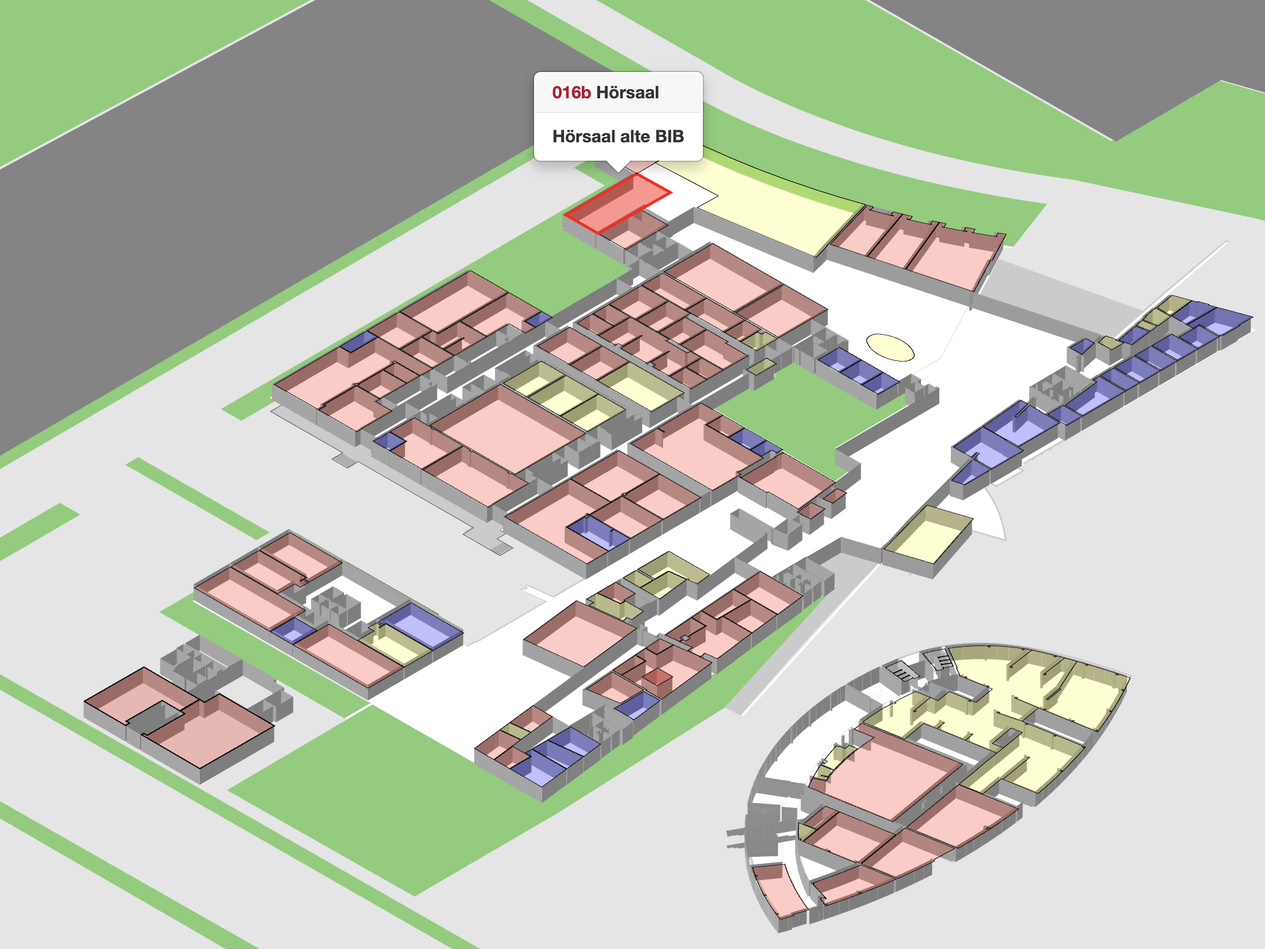
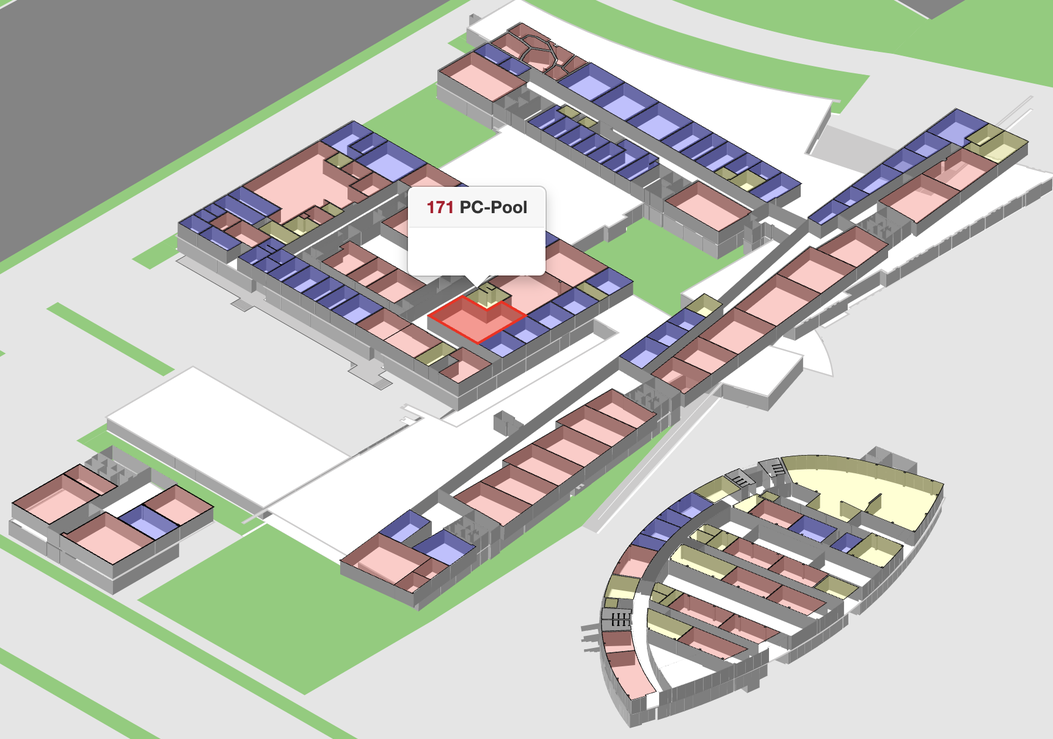
deploy: 4021798d3871fa430106687c3910ca86b8a0b2f8

diff --git a/searchindex.js b/searchindex.js
@@ -1,1 +1,1 @@
-Search.setIndex({docnames:["ae/ae-1-scraping-quotes","ae/exams","docs/course-faq","docs/course-overview","docs/course-schedule","docs/course-support","docs/course-syllabus","docs/programming-semantics","docs/programming-syntax","docs/programming-toolkit","exams/exams","hw/hw","weeks/week1","weeks/week2","weeks/weeks-overview"],envversion:{"sphinx.domains.c":2,"sphinx.domains.changeset":1,"sphinx.domains.citation":1,"sphinx.domains.cpp":5,"sphinx.domains.index":1,"sphinx.domains.javascript":2,"sphinx.domains.math":2,"sphinx.domains.python":3,"sphinx.domains.rst":2,"sphinx.domains.std":2,"sphinx.ext.intersphinx":1,"sphinxcontrib.bibtex":9,sphinx:56},filenames:["ae/ae-1-scraping-quotes.ipynb","ae/exams.md","docs/course-faq.md","docs/course-overview.md","docs/course-schedule.md","docs/course-support.md","docs/course-syllabus.md","docs/programming-semantics.ipynb","docs/programming-syntax.ipynb","docs/programming-toolkit.md","exams/exams.md","hw/hw.md","weeks/week1.md","weeks/week2.md","weeks/weeks-overview.md"],objects:{},objnames:{},objtypes:{},terms:{"0":[0,6,7,8,12],"00":[6,7],"0008":8,"01":[3,6,7],"016b":6,"02":[3,6],"04":7,"05":[3,4],"07":3,"09":3,"0m":7,"0ma":7,"0madd_numb":7,"0mb":7,"1":[0,3,4,6,7,8,13],"10":[0,3,4,7,8],"100":[6,7],"11":[3,6,7],"110":7,"12":[3,4,7],"121":7,"123":7,"13":[3,6,7],"14":[3,6,7,8],"1411870314":7,"14159":7,"15":[3,6,7],"16":[3,7],"17":7,"18":[3,7],"19":[3,7],"1906":7,"1912":7,"1956":7,"199":7,"2":[0,3,4,6,7,8,12],"20":[6,7],"200":0,"2011":7,"2012":7,"21":[3,7],"23":[3,7],"24":[6,7],"25":[3,6,7,9],"26":[3,7],"29":7,"3":[0,3,4,6,7,8,9],"30":[3,6,7],"31":7,"31mdocstr":7,"31mfile":7,"31mlength":7,"31msignatur":7,"31msourc":7,"31mstring":7,"31mtype":7,"32mdef":7,"32mreturn":7,"34":7,"34m":7,"35":7,"36":[7,8],"4":[3,4,6,7,8],"42":7,"43bdsj9j64j16410rds5g9vr0000gp":7,"45":6,"47":7,"49":[6,7],"5":[0,3,4,6,7,8],"50":6,"53":7,"54":6,"55":[6,7],"59":[6,7],"6":[3,7,8],"60":[6,7],"61":7,"64":[6,7],"65":6,"66":7,"68":7,"69":6,"7":[3,6,7,8],"70":6,"74":6,"75":6,"76":7,"79":6,"8":[3,7,8],"80":6,"81":7,"84":6,"85":6,"89":7,"9":[3,7,8,9],"90":[0,6],"91":6,"95":6,"96":6,"boolean":7,"case":[7,8,9],"catch":7,"class":[0,5,6,7],"default":9,"do":[6,7],"final":[0,6,9],"float":7,"function":[0,6,8,9],"import":[0,3,6,7,9],"int":7,"long":8,"new":[0,5,7],"null":7,"public":[5,6],"return":[0,7],"short":[7,8,9,13],"true":7,"try":[7,9],"var":7,"while":7,A:[0,6,7,8,9],As:[7,9],But:7,By:[6,8],For:[3,4,5,6,7,8,9],If:[5,6,7,8,9],In:[0,5,6,7,8,9],Is:7,It:[0,7,8,9],No:7,On:[6,9],One:[7,9],Or:7,Such:7,The:[0,5,6,7,8,9],Then:[7,9],There:[5,6,7],These:[6,7],To:[0,7],With:7,__:0,___:0,__name__:7,__str__:7,abc:7,abl:[6,7],about:[0,3,5,6,7,9,13],abov:0,accept:[6,9],access:[0,7],accomplish:6,account:[7,9,12],acount:9,across:[6,7],act:[6,7],activ:[0,6],actual:0,ad:5,add:[7,9],add_numb:7,addit:[7,9],addition:6,address:[0,9],adher:6,ae:[4,6,13,14],affect:7,affirm:6,after:[0,6,7,8,12],alabama:7,alan:7,albert:0,alex:[7,8],all:[5,6,7,8,9],allow:[6,7,9],almost:0,along:[7,9],alphabet:7,alreadi:[5,7,9],also:[6,7,8,9],altair:9,altern:[7,9],alwai:8,am:6,amax:7,amount:8,an:[0,4,6,7,8,9,12],anaconda3:9,analysi:[3,7,9],analyt:[3,4,6],analyz:6,ani:[0,5,6,7,9],anoth:[5,6,7],answer:[0,5,6,7],anybodi:9,anyon:6,anyth:[7,8],api:[3,6],app:[7,8],append:[0,7,8],appli:[6,7],applic:[9,12,13,14],approach:[0,6,7],appropri:[5,6],ar:[0,5,6,7,8,9],arg:7,argument:8,arithmet:7,around:6,arrai:[0,7],ask:[5,6,9],assert:0,assign:[0,3,4,6,7,8],assist:6,associ:[7,9],attach:7,attend:14,author:9,authors_text:0,autom:7,avail:[0,6,7,9],avoid:9,awar:6,b:[7,8],back:[12,13],base:[0,6,7,8,9],basic:[0,4,7,9,13],beautifulsoup4:9,beautifulsoup:0,becaus:7,becom:6,befor:[0,5,6,7,14],begin:6,behind:9,being:8,below:[0,8,9],best:[5,6,7],better:6,between:[6,7],beyond:5,big:[3,4],big_data:9,birth:7,block:[7,8],bodi:7,bool:7,both:[7,9],box:9,bracket:7,brief:[7,8],bring:6,broad:9,browser:[0,9,13],bs4:0,bucket:7,buffer:7,build:[0,7],built:7,builtin_function_or_method:7,bytes_or_buff:7,c:7,calcul:[6,7],call:[0,7,8,9],can:[0,5,6,7,8,9],cannot:0,capit:7,captur:9,carolina:7,cascad:13,catch_al:7,categori:6,cell:[0,9],center:5,certain:[0,7],chanc:5,chang:[0,7,9],channel:9,channel_prior:9,charact:7,cheat:6,check:[0,5,6,7],choos:9,chrome:[0,13],circumst:6,citat:6,cite:6,classmat:6,clean_op:7,clean_str:7,cleanli:7,clearli:6,click:0,clock:7,clone:[9,12],close:[7,8,9],cloud:9,cluster:[3,6],code:[0,7,8,14],codelab:13,colaboratori:9,collabor:[0,9],collect:[0,6,7],colon:[7,8],column:0,com:0,combin:[0,7,9],come:[6,7,9],command:9,commentari:9,commit:6,common:0,commonli:7,commun:[6,9],compat:9,compil:9,complet:[0,6],complic:7,compon:6,compress:7,compris:6,compromis:6,comput:[7,9],concept:[6,14],conceptu:6,conclus:9,concret:7,conda:0,condition:7,conduct:6,config:9,confus:6,congratul:0,consid:7,consist:8,constitut:8,construct:7,contain:[0,3,4,7,8,9,14],content:[0,3,4,5,6,7,8,9,14],continu:8,control:9,convent:[7,8],convert:7,copi:9,correct:0,correctli:8,correspond:[0,6],could:[6,7],cours:[12,13,14],cover:[7,13],creat:[5,6,7,8,12],creation:9,css:[0,4,13],curli:7,current:7,d:[7,8],dai:[6,7,9],dashboard:[3,6],data:[0,3,4,6,7,9],date:[3,4,6],datetim:7,de:[5,6],deadlin:6,deal:7,debugg:9,decis:9,declar:7,decod:7,dedic:6,deduct:6,deep:0,def:7,definit:7,delet:[0,9],deliveri:6,demo:9,demonstr:6,denot:[7,8],depend:[6,7,9],descript:7,design:[6,9],desir:7,desktop:[9,12],detail:[3,5,6],determin:6,dev:8,develop:[5,9],devic:9,devtool:0,df1:0,df2:0,df:0,df_author:0,df_quot:0,df_tag:0,dict:7,dictionari:7,did:9,differ:[0,7],difficult:[6,7],digit:7,directli:[5,6],directori:9,discov:6,discuss:[3,6],displai:[7,8],distinct:7,distinguish:9,div:0,divis:7,docstr:7,document:[0,7,9],doe:[7,8],don:[0,6,7],done:7,dot:7,doubl:7,down:7,download:[13,14],dr:6,drive:9,dt:7,due:[6,7],dure:[5,6],dynam:7,e:[0,6,7,8,9],each:[6,7,9],earlier:6,easi:7,easier:0,easiest:9,easili:7,ecosystem:9,edit:9,editor:9,effect:[7,8],effort:6,einstein:0,either:9,els:8,email:[6,9,12],empti:[0,7,8],emtpti:0,enabl:7,encod:7,encourag:5,end:[0,6,7,8],endeavor:6,enter:9,entir:[7,9],entiti:[7,9],entri:0,env:9,environ:0,equal:7,equat:9,equip:7,equival:[7,8],especi:[7,9],essenti:[7,8],etc:[0,6],evalu:[6,7,8],even:[6,8],eventu:[6,7],ever:7,everi:[0,7],everyon:5,everyth:[0,7],exact:7,exactli:7,exam:[4,14],exampl:[0,6,7,8],execut:[7,8,9],exercis:[9,12,13,14],exist:9,expand:7,expect:[0,6,7],explanatori:9,explicitli:6,explor:[7,8,9],exponenti:7,expos:7,express:[7,8],extend:7,extens:[0,13],extract:7,f:7,factor:7,fail:7,fals:7,familiar:[7,9],far:[0,6],fashion:7,fastest:7,featur:[0,6,7,8,9],feel:[5,6],fetch:0,fibonacci:7,file:[7,9],fill:[0,7,12],find:[6,7],findal:0,fine:7,first:[0,7,9,12],fix:7,flavor:7,floor:7,florida:7,flush:7,focu:[6,7,8,9],folder:7,follow:[0,6,7,8,9,14],forcibl:7,forev:7,form:[7,8],format:[6,7,9],forum:[3,6],found:8,four:[7,8],fraction:7,framework:[7,9],free:[5,6,9],from:[0,5,6,7,8,9,13],func:7,fundament:12,g:[6,7],gadget:0,gain:6,gener:[6,7],georgia:7,get:[7,9,12,13],get_text:0,getdefaultencod:7,git:12,github:[6,12,13],give:[0,6,7],given:[6,7],go:[5,7,9,12,13],goal:0,goe:7,good:[0,7],googl:[0,6,9,13],grace:7,great:9,greater:7,group:[6,7,8],guid:9,guidanc:6,guido:7,h:7,ha:[0,5,7,9],hack:9,hand:0,handl:7,handler:7,happen:7,hard:9,have:[0,5,6,7,9],hdm:[5,6,9,12],head:0,header:0,hello:7,help:5,here:[0,6,7,8,9],hhmm:7,high:[6,7],hint:0,home:6,homework:14,honor:6,hopper:7,host:9,hour:[6,7],how:[0,6,7,9],howev:6,html:[4,13],http:[0,8],huge:6,hw:[4,6,14],hyper:13,i:[0,3,5,6,7,8,9],ident:7,ignor:8,ii:3,ill:7,iloc:0,immens:7,immut:7,implement:0,impress:9,includ:[5,6,7,9],index:7,indic:[7,8],individu:[6,9],inform:[0,7,9],initi:7,inlin:8,input:7,insert:7,insid:9,insight:6,inspect:0,inspir:6,instal:[12,13,14],instanc:[5,7],instead:[0,9],instruct:[0,9,12],integ:7,interact:9,interest:9,interior:7,intermedi:0,internet:9,interpret:[8,9],intro:9,introduc:6,introduct:[3,4,12],introspect:7,intuit:7,invalid:7,invit:9,involv:[6,7],ipykernel_8411:7,ipython:0,is_even:7,item:7,iter:0,its:[7,9],j:[0,7],jack:[7,8],join:0,juptyer:9,jupyt:[0,6],just:[7,9],k:0,keep:[6,7],kei:7,kernel:[0,9],keyword:7,kind:7,kirenz:[5,6],know:[0,5,6,7],known:8,kwarg:7,l:[7,8],lab:[4,6,9],languag:[7,8,9,13],laptop:6,larg:0,last:7,later:0,latest:9,lead:8,leap:7,learn:[0,5,7,9],lectur:[4,14],led:9,left:[0,7],len:[0,7],less:[7,8],let:[0,6,9],level:[6,7],librari:7,lie:6,like:[0,5,6,7,8,9],line:[5,6,7,9],link:[3,7],linux:9,list:[0,8,9],ll:[7,8],local:[9,12],locat:[6,9,12,13],logic:7,look:[0,3,4,7,9],loop:0,lot:[6,7],lower:8,luck:0,lval:7,m:7,mac:9,machin:[9,12],mai:[5,6,7],main:7,mainli:[0,7,8,9],make:[0,6,7,8,9],maker:9,manag:9,mani:[0,7,9],mant:7,mark:[7,8],marker:8,market:6,markup:[9,13],match:0,materi:[3,6,14],mathemat:[7,8],matplotlib:9,matter:[5,7,8],mckinnei:7,me:[5,6],mean:[0,7,8,9],meaning:7,media:3,menu:9,menubar:0,messi:7,met:7,meta:0,metadata:[7,9],method:[0,6,8],metric:[3,6],microsoft:9,midpoint:8,might:7,mine:[3,6],minut:[0,7],mistak:7,mit:0,mkdir:9,modern:9,modifi:7,modul:[7,9],modulu:7,mondai:7,month:7,moodl:[3,5,6,9,12],more:[0,3,6,7,8,9],most:[7,8,9],much:[6,8],multipl:0,must:[6,7,8],mutabl:7,my:6,my_addit:7,my_lambda:7,myself:6,n:[7,9],naiv:7,name:[0,5,6,7,8],narr:9,natassha:0,navig:0,necessari:[0,8],need:[0,5,6,7,9,12],neg:7,negat:7,nest:0,network:3,newlin:7,next:[0,7,8,9],noew:9,non:7,none:[7,12,13],nonetyp:7,note:[0,6,7,9],notebook:[0,6],notic:[7,8],notimplementederror:0,now:[7,9],nr:[4,12],number:[0,6,7,8],object:[0,7,9],obtain:[0,6],odd:7,off:7,offer:[5,7,9],offici:7,offset:7,often:7,old:0,one:[0,6,7,9],ones:7,onli:[0,5,6,7,8,9],onlin:[5,6],op:7,open:[6,7,8,9],oper:8,opportun:[5,6],opt:9,option:7,order:7,org:8,organ:[7,12,13],orient:[7,9],other:[5,6,7,9],otherwis:7,our:[0,3,4,5,6,7,9],out:[0,5,6,7,9,12],outlin:4,output:[0,7,9],outsid:[6,8],over:0,overview:[4,9],own:6,oy:7,packag:9,page:[0,3,4,6],pair:8,panda:[7,9],parallel:9,parent:0,parenthes:7,parser:0,part:[0,6,7],parti:9,particular:[0,6,7,9],pass:7,pattern:7,pd:0,pep8:8,pep:8,per:0,percentag:6,perfect:7,perfectli:7,perform:9,perhap:7,period:[6,7],person:5,pi:7,piec:7,pkg:9,place:0,plagiar:6,plai:7,platform:9,pleas:[0,5,6,9],pledg:6,pm:6,point:7,popular:9,posit:7,possibl:[6,7,8],post:[5,6],power:[7,9],practic:[6,7],preced:[7,8],prefer:5,prepar:[0,4,6],preprocess:0,press:9,prettifi:0,prevent:[0,6],previou:[0,8],print:[0,7,8,9],prioriti:9,pro:9,problem:[0,6,7,9],proce:[0,9],process:[0,7],procrastin:6,produc:7,product:[7,9],program:[4,7,8,12],programm:7,progress:[3,4],project:[6,9],prompt:9,proper:[6,7],provid:[0,5,6,7,9],pull:0,punctuat:7,put:[6,7],py:7,python:6,q:7,question:[5,6,7],quit:0,quot:[4,13],quotes_al:0,quotes_text:0,quotient:7,r:7,rais:[0,7],rang:[0,8],rather:[5,7,9],re:7,reach:9,read:[6,9,12,14],readabl:[7,8],readi:7,real:7,reason:7,recommend:[8,9],recycl:6,ref:4,refer:[7,8],refrain:5,regard:[0,6],regardless:[6,8],regular:7,relationship:7,relev:[0,13],remaind:7,remot:9,remov:[7,9],remove_punctu:7,repeat:7,repeatedli:7,repo:[6,9,12],report:6,repositori:9,repr:7,repres:0,request:9,requir:[7,8,9],research:9,reserv:6,resourc:[4,6],respond:5,respons:[0,6],rest:7,restart:[0,9],result:[0,6,7,9],retriev:0,reusabl:7,review:[0,9],rf:9,rich:9,right:9,rm:9,room:6,root:[0,7,9],rossum:7,roughli:7,round:7,row:0,rule:6,run:[0,9],rval:7,s:[0,5,6,7,8,9],safe:7,sai:0,same:[0,5,7],saw:7,schedul:[3,12,13],scienc:9,scientist:9,scrape:[3,4,6,13],scraper:0,script:[7,8],seaborn:9,second:[7,8],section:[7,9,14],see:[0,7,9],seen:7,select:[0,9],selector:0,selectorgadget:[0,13],selvaraj:0,semant:8,semest:[3,4,6],sens:7,sep:7,separ:7,sequenc:7,server:9,servic:5,set:[7,8,9],setup:9,sever:7,share:9,sheet:13,shortcut:7,shorthand:8,should:[0,5,6,7,8,14],show:[0,7],shown:[7,9],sign:[6,7,8],silent:9,similar:[5,7],simpl:9,simpli:[0,7,8,9],simultan:7,sinc:[0,6],singl:[0,7],site:[0,9],six:6,skill:[6,7],skip:7,slide:[3,14],small:[0,7],snippet:8,so:[0,5,6,7],social:3,softwar:[9,14],solv:6,some:[0,6,7,8,9],someth:[6,7],sometim:7,somewhat:7,sort:[7,8],sourc:[6,7,9],south:7,space:[7,8],span:0,special:[7,9],specif:6,specifi:7,speed:9,split:[7,8],squar:7,stackoverflow:6,standard:[6,7],staravoitau:[7,8],start:[0,6,7,9,12,13],state:[6,7],statement:9,statist:6,status_cod:0,stdout:7,steal:6,step:[0,9],still:8,store:[0,7,9],str:[0,7],stream:7,streamlit:6,strftime:7,strict:[7,9],string:0,strip:7,structur:[0,8,14],student:[5,6],studio:[0,6],stuttgart:[5,6],style:13,sub:7,subject:[5,6],submiss:6,submit:6,subtract:7,succeed:0,succes:0,successfulli:0,suit:9,sum:7,sundai:7,support:[6,9],suppos:7,sure:[0,9],survei:12,sy:7,syllabu:12,symbol:[7,8],synchron:9,syntact:7,syntax:13,system:9,t:[0,6,7,9],tabl:7,tags_text:0,take:[0,3,4,6,7,9],task:[0,6,7],tbd:[10,11],teach:[5,6],team:[5,6],tell:[6,7],ten:0,termin:[8,9],text:[1,3,6,7,9,13],than:[5,6,7,8,9],the_sum:7,thei:[6,7,8],them:[0,7,9],themselv:7,therefor:[0,6,9],thi:[0,3,4,6,7,8,13,14],thing:[6,7,9],think:[0,7,9],third:9,those:5,thought:[0,7],three:[0,6,7,8,9],threshold:6,through:[0,6,7,9],throughout:[6,8],thu:6,time:[0,5,6,9],timefram:6,tinkerstellar:[7,8],tip:9,titl:[7,12,13],tl:6,togeth:7,too:0,tool:9,toolkit:[4,12],top:[0,7,9],topic:[3,4],toscrap:0,total:0,tour:[7,8],trace:7,track:[3,7,9],transform:7,treat:[6,8],trivial:7,troubl:9,truncat:7,tuesdai:6,tune:7,tupl:7,ture:7,turn:0,tutori:[0,8,13,14],two:[0,6,7,8],type:9,typic:8,u:7,unansw:6,unchang:7,undefin:7,understand:[0,6,7],understood:7,unifi:9,uniform:7,uniqu:7,unit:8,unless:[6,7],unlik:7,unord:7,until:7,up:[6,7,8],updat:[0,3,4],uphold:6,upload:3,upper:8,url:0,us:[0,5,6,7,8,12],user:[7,8,9],usual:9,utc:7,val:7,valid:7,valu:[6,8],van:7,vanderpla:[7,8],vari:7,variabl:[0,8],varieti:[6,9],variou:7,ve:[6,7,8],venu:5,veri:[6,7,8],verifi:9,version:[0,8],version_info:0,via:7,video:[9,13,14],view:9,virginia:7,visit:5,visual:[0,3,6],volum:6,vs:9,w3school:13,w:7,wa:0,wai:[0,6,7,8,9],want:[0,7,9],watch:[9,13],we:[0,5,7,8,9],web:[3,4,6,9,13,14],webscrap:9,wednesdai:6,week:[3,4,6,7],weekdai:7,weekli:[3,14],welcom:[3,4,5,6],well:[0,6,7,9],went:7,were:9,west:7,what:[5,6,7,8,9],when:[7,9],where:[0,7,8,9],whether:7,which:[0,7,8,9,13],whirlwind:[7,8],white:8,whitespac:7,who:9,whole:7,wide:[7,8],wish:7,within:[6,7],without:[0,7],won:6,word:[8,9],work:[0,7,9],workflow:9,world:[0,9],wors:6,would:[6,7],write:[0,5,6,7,9],written:9,wrong:7,www:8,x:[7,8],y:[7,8,9],year:7,yob:7,yor:0,you:[0,5,6,7,8,9,12,14],your:[0,5,6,7,12],your_github_usernam:[12,13],z:7,zero:7,zone:7},titles:["Web Scraping in Python with Beautiful Soup, Requests and pandas","Application exercises","FAQ","Course overview","Course schedule","Course support","Course syllabus","Python Semantics","Python Syntax","Programming toolkit","Exams","Homeworks","Week 1","Week 2","Overview"],titleterms:{"1":12,"2":13,"break":7,"default":7,"do":9,"function":7,"new":9,To:9,academ:[5,6],all:0,anaconda:9,anonym:7,applic:[1,6],argument:7,artihmet:7,assess:6,asterisk:7,attribut:7,author:0,beauti:0,code:[6,9],colab:9,collabor:6,comment:8,comparison:7,compound:7,comprehens:7,conda:9,condit:7,continu:7,control:7,cours:[3,4,5,6,9],creat:[0,9],datafram:0,date:7,defin:7,discuss:5,element:0,elif:7,els:7,email:5,enumer:7,environ:9,error:7,exam:[6,10],except:7,exercis:[1,6],extens:9,extract:0,faq:2,filter:7,find:0,find_al:0,flexibl:7,flow:7,folder:9,forg:9,forum:5,fundament:9,get:[0,6],git:9,github:9,grade:6,guid:8,help:6,homework:[6,11],html:0,hyperlink:0,indent:8,info:6,instal:9,integr:6,investig:0,iter:7,jupyt:9,lambda:7,late:6,learn:6,lectur:[5,6],line:8,list:7,loop:7,maco:9,manipul:7,map:7,markdown:9,method:7,multipl:7,notebook:9,object:6,old:9,oper:7,option:9,over:7,overview:[3,14],panda:0,parenthes:8,particip:[12,13,14],perform:[12,13,14],pointer:7,polici:6,practic:[12,13,14],prepar:[12,13,14],prerequisit:0,program:9,python:[0,7,8,9],quot:0,rang:7,request:0,resourc:9,reus:6,runtim:7,schedul:4,scrape:0,semant:7,setup:0,share:6,simpl:7,soup:0,specif:0,statement:[7,8],string:7,studio:9,style:8,success:6,support:5,syllabu:6,syntax:[7,8],tag:0,text:0,thi:9,time:7,tip:6,titl:0,toolkit:9,troubleshoot:9,tutori:[7,9],type:7,uninstal:9,us:9,valu:7,variabl:7,version:9,visual:9,web:0,websit:0,week:[12,13],where:6,whitespac:8,window:9,within:8,work:6,your:9,zip:7}})
+Search.setIndex({docnames:["ae/ae-1-scraping-quotes","ae/exams","docs/course-faq","docs/course-overview","docs/course-schedule","docs/course-support","docs/course-syllabus","docs/programming-semantics","docs/programming-syntax","docs/programming-toolkit","exams/exams","hw/hw","weeks/week1","weeks/week2","weeks/weeks-overview"],envversion:{"sphinx.domains.c":2,"sphinx.domains.changeset":1,"sphinx.domains.citation":1,"sphinx.domains.cpp":5,"sphinx.domains.index":1,"sphinx.domains.javascript":2,"sphinx.domains.math":2,"sphinx.domains.python":3,"sphinx.domains.rst":2,"sphinx.domains.std":2,"sphinx.ext.intersphinx":1,"sphinxcontrib.bibtex":9,sphinx:56},filenames:["ae/ae-1-scraping-quotes.ipynb","ae/exams.md","docs/course-faq.md","docs/course-overview.md","docs/course-schedule.md","docs/course-support.md","docs/course-syllabus.md","docs/programming-semantics.ipynb","docs/programming-syntax.ipynb","docs/programming-toolkit.md","exams/exams.md","hw/hw.md","weeks/week1.md","weeks/week2.md","weeks/weeks-overview.md"],objects:{},objnames:{},objtypes:{},terms:{"0":[0,6,7,8,12],"00":[6,7],"0008":8,"01":[3,6,7],"02":[3,6],"04":7,"05":[3,4],"07":3,"09":3,"0m":7,"0ma":7,"0madd_numb":7,"0mb":7,"1":[0,3,4,6,7,8,13],"10":[0,3,4,7,8],"100":[6,7],"11":[3,6,7],"110":7,"12":[3,4,7],"121":7,"123":7,"13":[3,6,7],"14":[3,6,7,8],"1411870314":7,"14159":7,"15":[3,6,7],"16":[3,7],"17":7,"171":6,"18":[3,7],"19":[3,7],"1906":7,"1912":7,"1956":7,"199":7,"2":[0,3,4,6,7,8,12],"20":[6,7],"200":0,"2011":7,"2012":7,"21":[3,7],"23":[3,7],"24":[6,7],"25":[3,6,7,9],"26":[3,7],"29":7,"3":[0,3,4,6,7,8,9],"30":[3,6,7],"31":7,"31mdocstr":7,"31mfile":7,"31mlength":7,"31msignatur":7,"31msourc":7,"31mstring":7,"31mtype":7,"32mdef":7,"32mreturn":7,"34":7,"34m":7,"35":7,"36":[7,8],"4":[3,4,6,7,8],"42":7,"43bdsj9j64j16410rds5g9vr0000gp":7,"45":6,"47":7,"49":[6,7],"5":[0,3,4,6,7,8],"50":6,"53":7,"54":6,"55":[6,7],"59":[6,7],"6":[3,7,8],"60":[6,7],"61":7,"64":[6,7],"65":6,"66":7,"68":7,"69":6,"7":[3,6,7,8],"70":6,"74":6,"75":6,"76":7,"79":6,"8":[3,7,8],"80":6,"81":7,"84":6,"85":6,"89":7,"9":[3,7,8,9],"90":[0,6],"91":6,"95":6,"96":6,"boolean":7,"case":[7,8,9],"catch":7,"class":[0,5,6,7],"default":9,"do":[6,7],"final":[0,6,9],"float":7,"function":[0,6,8,9],"import":[0,3,6,7,9],"int":7,"long":8,"new":[0,5,7],"null":7,"public":[5,6],"return":[0,7],"short":[7,8,9,13],"true":7,"try":[7,9],"var":7,"while":7,A:[0,6,7,8,9],As:[7,9],But:7,By:[6,8],For:[3,4,5,6,7,8,9],If:[5,6,7,8,9],In:[0,5,6,7,8,9],Is:7,It:[0,7,8,9],No:7,On:[6,9],One:[7,9],Or:7,Such:7,The:[0,5,6,7,8,9],Then:[7,9],There:[5,6,7],These:[6,7],To:[0,7],With:7,__:0,___:0,__name__:7,__str__:7,abc:7,abl:[6,7],about:[0,3,5,6,7,9,13],abov:0,accept:[6,9],access:[0,7],accomplish:6,account:[7,9,12],acount:9,across:[6,7],act:[6,7],activ:[0,6],actual:0,ad:5,add:[7,9],add_numb:7,addit:[7,9],addition:6,address:[0,9],adher:6,ae:[4,6,13,14],affect:7,affirm:6,after:[0,6,7,8,12],alabama:7,alan:7,albert:0,alex:[7,8],all:[5,6,7,8,9],allow:[6,7,9],almost:0,along:[7,9],alphabet:7,alreadi:[5,7,9],also:[6,7,8,9],altair:9,altern:[7,9],alwai:8,am:6,amax:7,amount:8,an:[0,4,6,7,8,9,12],anaconda3:9,analysi:[3,7,9],analyt:[3,4,6],analyz:6,ani:[0,5,6,7,9],anoth:[5,6,7],answer:[0,5,6,7],anybodi:9,anyon:6,anyth:[7,8],api:[3,6],app:[7,8],append:[0,7,8],appli:[6,7],applic:[9,12,13,14],approach:[0,6,7],appropri:[5,6],ar:[0,5,6,7,8,9],arg:7,argument:8,arithmet:7,around:6,arrai:[0,7],ask:[5,6,9],assert:0,assign:[0,3,4,6,7,8],assist:6,associ:[7,9],attach:7,attend:14,author:9,authors_text:0,autom:7,avail:[0,6,7,9],avoid:9,awar:6,b:[7,8],back:[12,13],base:[0,6,7,8,9],basic:[0,4,7,9,13],beautifulsoup4:9,beautifulsoup:0,becaus:7,becom:6,befor:[0,5,6,7,14],begin:6,behind:9,being:8,below:[0,8,9],best:[5,6,7],better:6,between:[6,7],beyond:5,big:[3,4],big_data:9,birth:7,block:[7,8],bodi:7,bool:7,both:[7,9],box:9,bracket:7,brief:[7,8],bring:6,broad:9,browser:[0,9,13],bs4:0,bucket:7,buffer:7,build:[0,7],built:7,builtin_function_or_method:7,bytes_or_buff:7,c:7,calcul:[6,7],call:[0,7,8,9],can:[0,5,6,7,8,9],cannot:0,capit:7,captur:9,carolina:7,cascad:13,catch_al:7,categori:6,cell:[0,9],center:5,certain:[0,7],chanc:5,chang:[0,7,9],channel:9,channel_prior:9,charact:7,cheat:6,check:[0,5,6,7],choos:9,chrome:[0,13],circumst:6,citat:6,cite:6,classmat:6,clean_op:7,clean_str:7,cleanli:7,clearli:6,click:0,clock:7,clone:[9,12],close:[7,8,9],cloud:9,cluster:[3,6],code:[0,7,8,14],codelab:13,colaboratori:9,collabor:[0,9],collect:[0,6,7],colon:[7,8],column:0,com:0,combin:[0,7,9],come:[6,7,9],command:9,commentari:9,commit:6,common:0,commonli:7,commun:[6,9],compat:9,compil:9,complet:[0,6],complic:7,compon:6,compress:7,compris:6,compromis:6,comput:[7,9],concept:[6,14],conceptu:6,conclus:9,concret:7,conda:0,condition:7,conduct:6,config:9,confus:6,congratul:0,consid:7,consist:8,constitut:8,construct:7,contain:[0,3,4,7,8,9,14],content:[0,3,4,5,6,7,8,9,14],continu:8,control:9,convent:[7,8],convert:7,copi:9,correct:0,correctli:8,correspond:[0,6],could:[6,7],cours:[12,13,14],cover:[7,13],creat:[5,6,7,8,12],creation:9,css:[0,4,13],curli:7,current:7,d:[7,8],dai:[6,7,9],dashboard:[3,6],data:[0,3,4,6,7,9],date:[3,4,6],datetim:7,de:[5,6],deadlin:6,deal:7,debugg:9,decis:9,declar:7,decod:7,dedic:6,deduct:6,deep:0,def:7,definit:7,delet:[0,9],deliveri:6,demo:9,demonstr:6,denot:[7,8],depend:[6,7,9],descript:7,design:[6,9],desir:7,desktop:[9,12],detail:[3,5,6],determin:6,dev:8,develop:[5,9],devic:9,devtool:0,df1:0,df2:0,df:0,df_author:0,df_quot:0,df_tag:0,dict:7,dictionari:7,did:9,differ:[0,7],difficult:[6,7],digit:7,directli:[5,6],directori:9,discov:6,discuss:[3,6],displai:[7,8],distinct:7,distinguish:9,div:0,divis:7,docstr:7,document:[0,7,9],doe:[7,8],don:[0,6,7],done:7,dot:7,doubl:7,down:7,download:[13,14],dr:6,drive:9,dt:7,due:[6,7],dure:[5,6],dynam:7,e:[0,6,7,8,9],each:[6,7,9],earlier:6,easi:7,easier:0,easiest:9,easili:7,ecosystem:9,edit:9,editor:9,effect:[7,8],effort:6,einstein:0,either:9,els:8,email:[6,9,12],empti:[0,7,8],emtpti:0,enabl:7,encod:7,encourag:5,end:[0,6,7,8],endeavor:6,enter:9,entir:[7,9],entiti:[7,9],entri:0,env:9,environ:0,equal:7,equat:9,equip:7,equival:[7,8],especi:[7,9],essenti:[7,8],etc:[0,6],evalu:[6,7,8],even:[6,8],eventu:[6,7],ever:7,everi:[0,7],everyon:5,everyth:[0,7],exact:7,exactli:7,exam:[4,14],exampl:[0,6,7,8],execut:[7,8,9],exercis:[9,12,13,14],exist:9,expand:7,expect:[0,6,7],explanatori:9,explicitli:6,explor:[7,8,9],exponenti:7,expos:7,express:[7,8],extend:7,extens:[0,13],extract:7,f:7,factor:7,fail:7,fals:7,familiar:[7,9],far:[0,6],fashion:7,fastest:7,featur:[0,6,7,8,9],feel:[5,6],fetch:0,fibonacci:7,file:[7,9],fill:[0,7,12],find:[6,7],findal:0,fine:7,first:[0,7,9,12],fix:7,flavor:7,floor:7,florida:7,flush:7,focu:[6,7,8,9],folder:7,follow:[0,6,7,8,9,14],forcibl:7,forev:7,form:[7,8],format:[6,7,9],forum:[3,6],found:8,four:[7,8],fraction:7,framework:[7,9],free:[5,6,9],from:[0,5,6,7,8,9,13],func:7,fundament:12,g:[6,7],gadget:0,gain:6,gener:[6,7],georgia:7,get:[7,9,12,13],get_text:0,getdefaultencod:7,git:12,github:[6,12,13],give:[0,6,7],given:[6,7],go:[5,7,9,12,13],goal:0,goe:7,good:[0,7],googl:[0,6,9,13],grace:7,great:9,greater:7,group:[6,7,8],guid:9,guidanc:6,guido:7,h:7,ha:[0,5,7,9],hack:9,hand:0,handl:7,handler:7,happen:7,hard:9,have:[0,5,6,7,9],hdm:[5,6,9,12],head:0,header:0,hello:7,help:5,here:[0,6,7,8,9],hhmm:7,high:[6,7],hint:0,home:6,homework:14,honor:6,hopper:7,host:9,hour:[6,7],how:[0,6,7,9],howev:6,html:[4,13],http:[0,8],huge:6,hw:[4,6,14],hyper:13,i:[0,3,5,6,7,8,9],ident:7,ignor:8,ii:3,ill:7,iloc:0,immens:7,immut:7,implement:0,impress:9,includ:[5,6,7,9],index:7,indic:[7,8],individu:[6,9],inform:[0,7,9],initi:7,inlin:8,input:7,insert:7,insid:9,insight:6,inspect:0,inspir:6,instal:[12,13,14],instanc:[5,7],instead:[0,9],instruct:[0,9,12],integ:7,interact:9,interest:9,interior:7,intermedi:0,internet:9,interpret:[8,9],intro:9,introduc:6,introduct:[3,4,12],introspect:7,intuit:7,invalid:7,invit:9,involv:[6,7],ipykernel_8411:7,ipython:0,is_even:7,item:7,iter:0,its:[7,9],j:[0,7],jack:[7,8],join:0,juptyer:9,jupyt:[0,6],just:[7,9],k:0,keep:[6,7],kei:7,kernel:[0,9],keyword:7,kind:7,kirenz:[5,6],know:[0,5,6,7],known:8,kwarg:7,l:[7,8],lab:[4,6,9],languag:[7,8,9,13],laptop:6,larg:0,last:7,later:0,latest:9,lead:8,leap:7,learn:[0,5,7,9],lectur:[4,14],led:9,left:[0,7],len:[0,7],less:[7,8],let:[0,6,9],level:[6,7],librari:7,lie:6,like:[0,5,6,7,8,9],line:[5,6,7,9],link:[3,7],linux:9,list:[0,8,9],ll:[7,8],local:[9,12],locat:[6,9,12,13],logic:7,look:[0,3,4,7,9],loop:0,lot:[6,7],lower:8,luck:0,lval:7,m:7,mac:9,machin:[9,12],mai:[5,6,7],main:7,mainli:[0,7,8,9],make:[0,6,7,8,9],maker:9,manag:9,mani:[0,7,9],mant:7,mark:[7,8],marker:8,market:6,markup:[9,13],match:0,materi:[3,6,14],mathemat:[7,8],matplotlib:9,matter:[5,7,8],mckinnei:7,me:[5,6],mean:[0,7,8,9],meaning:7,media:3,menu:9,menubar:0,messi:7,met:7,meta:0,metadata:[7,9],method:[0,6,8],metric:[3,6],microsoft:9,midpoint:8,might:7,mine:[3,6],minut:[0,7],mistak:7,mit:0,mkdir:9,modern:9,modifi:7,modul:[7,9],modulu:7,mondai:7,month:7,moodl:[3,5,6,9,12],more:[0,3,6,7,8,9],most:[7,8,9],much:[6,8],multipl:0,must:[6,7,8],mutabl:7,my:6,my_addit:7,my_lambda:7,myself:6,n:[7,9],naiv:7,name:[0,5,6,7,8],narr:9,natassha:0,navig:0,necessari:[0,8],need:[0,5,6,7,9,12],neg:7,negat:7,nest:0,network:3,newlin:7,next:[0,7,8,9],noew:9,non:7,none:[7,12,13],nonetyp:7,note:[0,6,7,9],notebook:[0,6],notic:[7,8],notimplementederror:0,now:[7,9],nr:[4,12],number:[0,6,7,8],object:[0,7,9],obtain:[0,6],odd:7,off:7,offer:[5,7,9],offici:7,offset:7,often:7,old:0,one:[0,6,7,9],ones:7,onli:[0,5,6,7,8,9],onlin:[5,6],op:7,open:[6,7,8,9],oper:8,opportun:[5,6],opt:9,option:7,order:7,org:8,organ:[7,12,13],orient:[7,9],other:[5,6,7,9],otherwis:7,our:[0,3,4,5,6,7,9],out:[0,5,6,7,9,12],outlin:4,output:[0,7,9],outsid:[6,8],over:0,overview:[4,9],own:6,oy:7,packag:9,page:[0,3,4,6],pair:8,panda:[7,9],parallel:9,parent:0,parenthes:7,parser:0,part:[0,6,7],parti:9,particular:[0,6,7,9],pass:7,pattern:7,pd:0,pep8:8,pep:8,per:0,percentag:6,perfect:7,perfectli:7,perform:9,perhap:7,period:[6,7],person:5,pi:7,piec:7,pkg:9,place:0,plagiar:6,plai:7,platform:9,pleas:[0,5,6,9],pledg:6,pm:6,point:7,popular:9,posit:7,possibl:[6,7,8],post:[5,6],power:[7,9],practic:[6,7],preced:[7,8],prefer:5,prepar:[0,4,6],preprocess:0,press:9,prettifi:0,prevent:[0,6],previou:[0,8],print:[0,7,8,9],prioriti:9,pro:9,problem:[0,6,7,9],proce:[0,9],process:[0,7],procrastin:6,produc:7,product:[7,9],program:[4,7,8,12],programm:7,progress:[3,4],project:[6,9],prompt:9,proper:[6,7],provid:[0,5,6,7,9],pull:0,punctuat:7,put:[6,7],py:7,python:6,q:7,question:[5,6,7],quit:0,quot:[4,13],quotes_al:0,quotes_text:0,quotient:7,r:7,rais:[0,7],rang:[0,8],rather:[5,7,9],re:7,reach:9,read:[6,9,12,14],readabl:[7,8],readi:7,real:7,reason:7,recommend:[8,9],recycl:6,ref:4,refer:[7,8],refrain:5,regard:[0,6],regardless:[6,8],regular:7,relationship:7,relev:[0,13],remaind:7,remot:9,remov:[7,9],remove_punctu:7,repeat:7,repeatedli:7,repo:[6,9,12],report:6,repositori:9,repr:7,repres:0,request:9,requir:[7,8,9],research:9,reserv:6,resourc:[4,6],respond:5,respons:[0,6],rest:7,restart:[0,9],result:[0,6,7,9],retriev:0,reusabl:7,review:[0,9],rf:9,rich:9,right:9,rm:9,room:6,root:[0,7,9],rossum:7,roughli:7,round:7,row:0,rule:6,run:[0,9],rval:7,s:[0,5,6,7,8,9],safe:7,sai:0,same:[0,5,7],saw:7,schedul:[3,12,13],scienc:9,scientist:9,scrape:[3,4,6,13],scraper:0,script:[7,8],seaborn:9,second:[7,8],section:[7,9,14],see:[0,7,9],seen:7,select:[0,9],selector:0,selectorgadget:[0,13],selvaraj:0,semant:8,semest:[3,4,6],sens:7,sep:7,separ:7,sequenc:7,server:9,servic:5,set:[7,8,9],setup:9,sever:7,share:9,sheet:13,shortcut:7,shorthand:8,should:[0,5,6,7,8,14],show:[0,7],shown:[7,9],sign:[6,7,8],silent:9,similar:[5,7],simpl:9,simpli:[0,7,8,9],simultan:7,sinc:[0,6],singl:[0,7],site:[0,9],six:6,skill:[6,7],skip:7,slide:[3,14],small:[0,7],snippet:8,so:[0,5,6,7],social:3,softwar:[9,14],solv:6,some:[0,6,7,8,9],someth:[6,7],sometim:7,somewhat:7,sort:[7,8],sourc:[6,7,9],south:7,space:[7,8],span:0,special:[7,9],specif:6,specifi:7,speed:9,split:[7,8],squar:7,stackoverflow:6,standard:[6,7],staravoitau:[7,8],start:[0,6,7,9,12,13],state:[6,7],statement:9,statist:6,status_cod:0,stdout:7,steal:6,step:[0,9],still:8,store:[0,7,9],str:[0,7],stream:7,streamlit:6,strftime:7,strict:[7,9],string:0,strip:7,structur:[0,8,14],student:[5,6],studio:[0,6],stuttgart:[5,6],style:13,sub:7,subject:[5,6],submiss:6,submit:6,subtract:7,succeed:0,succes:0,successfulli:0,suit:9,sum:7,sundai:7,support:[6,9],suppos:7,sure:[0,9],survei:12,sy:7,syllabu:12,symbol:[7,8],synchron:9,syntact:7,syntax:13,system:9,t:[0,6,7,9],tabl:7,tags_text:0,take:[0,3,4,6,7,9],task:[0,6,7],tbd:[10,11],teach:[5,6],team:[5,6],tell:[6,7],ten:0,termin:[8,9],text:[1,3,6,7,9,13],than:[5,6,7,8,9],the_sum:7,thei:[6,7,8],them:[0,7,9],themselv:7,therefor:[0,6,9],thi:[0,3,4,6,7,8,13,14],thing:[6,7,9],think:[0,7,9],third:9,those:5,thought:[0,7],three:[0,6,7,8,9],threshold:6,through:[0,6,7,9],throughout:[6,8],thu:6,time:[0,5,6,9],timefram:6,tinkerstellar:[7,8],tip:9,titl:[7,12,13],tl:6,togeth:7,too:0,tool:9,toolkit:[4,12],top:[0,7,9],topic:[3,4],toscrap:0,total:0,tour:[7,8],trace:7,track:[3,7,9],transform:7,treat:[6,8],trivial:7,troubl:9,truncat:7,tuesdai:6,tune:7,tupl:7,ture:7,turn:0,tutori:[0,8,13,14],two:[0,6,7,8],type:9,typic:8,u:7,unansw:6,unchang:7,undefin:7,understand:[0,6,7],understood:7,unifi:9,uniform:7,uniqu:7,unit:8,unless:[6,7],unlik:7,unord:7,until:7,up:[6,7,8],updat:[0,3,4],uphold:6,upload:3,upper:8,url:0,us:[0,5,6,7,8,12],user:[7,8,9],usual:9,utc:7,val:7,valid:7,valu:[6,8],van:7,vanderpla:[7,8],vari:7,variabl:[0,8],varieti:[6,9],variou:7,ve:[6,7,8],venu:5,veri:[6,7,8],verifi:9,version:[0,8],version_info:0,via:7,video:[9,13,14],view:9,virginia:7,visit:5,visual:[0,3,6],volum:6,vs:9,w3school:13,w:7,wa:0,wai:[0,6,7,8,9],want:[0,7,9],watch:[9,13],we:[0,5,7,8,9],web:[3,4,6,9,13,14],webscrap:9,wednesdai:6,week:[3,4,6,7],weekdai:7,weekli:[3,14],welcom:[3,4,5,6],well:[0,6,7,9],went:7,were:9,west:7,what:[5,6,7,8,9],when:[7,9],where:[0,7,8,9],whether:7,which:[0,7,8,9,13],whirlwind:[7,8],white:8,whitespac:7,who:9,whole:7,wide:[7,8],wish:7,within:[6,7],without:[0,7],won:6,word:[8,9],work:[0,7,9],workflow:9,world:[0,9],wors:6,would:[6,7],write:[0,5,6,7,9],written:9,wrong:7,www:8,x:[7,8],y:[7,8,9],year:7,yob:7,yor:0,you:[0,5,6,7,8,9,12,14],your:[0,5,6,7,12],your_github_usernam:[12,13],z:7,zero:7,zone:7},titles:["Web Scraping in Python with Beautiful Soup, Requests and pandas","Application exercises","FAQ","Course overview","Course schedule","Course support","Course syllabus","Python Semantics","Python Syntax","Programming toolkit","Exams","Homeworks","Week 1","Week 2","Overview"],titleterms:{"1":12,"2":13,"break":7,"default":7,"do":9,"function":7,"new":9,To:9,academ:[5,6],all:0,anaconda:9,anonym:7,applic:[1,6],argument:7,artihmet:7,assess:6,asterisk:7,attribut:7,author:0,beauti:0,code:[6,9],colab:9,collabor:6,comment:8,comparison:7,compound:7,comprehens:7,conda:9,condit:7,continu:7,control:7,cours:[3,4,5,6,9],creat:[0,9],datafram:0,date:7,defin:7,discuss:5,element:0,elif:7,els:7,email:5,enumer:7,environ:9,error:7,exam:[6,10],except:7,exercis:[1,6],extens:9,extract:0,faq:2,filter:7,find:0,find_al:0,flexibl:7,flow:7,folder:9,forg:9,forum:5,fundament:9,get:[0,6],git:9,github:9,grade:6,guid:8,help:6,homework:[6,11],html:0,hyperlink:0,indent:8,info:6,instal:9,integr:6,investig:0,iter:7,jupyt:9,lambda:7,late:6,learn:6,lectur:[5,6],line:8,list:7,loop:7,maco:9,manipul:7,map:7,markdown:9,method:7,multipl:7,notebook:9,object:6,old:9,oper:7,option:9,over:7,overview:[3,14],panda:0,parenthes:8,particip:[12,13,14],perform:[12,13,14],pointer:7,polici:6,practic:[12,13,14],prepar:[12,13,14],prerequisit:0,program:9,python:[0,7,8,9],quot:0,rang:7,request:0,resourc:9,reus:6,runtim:7,schedul:4,scrape:0,semant:7,setup:0,share:6,simpl:7,soup:0,specif:0,statement:[7,8],string:7,studio:9,style:8,success:6,support:5,syllabu:6,syntax:[7,8],tag:0,text:0,thi:9,time:7,tip:6,titl:0,toolkit:9,troubleshoot:9,tutori:[7,9],type:7,uninstal:9,us:9,valu:7,variabl:7,version:9,visual:9,web:0,websit:0,week:[12,13],where:6,whitespac:8,window:9,within:8,work:6,your:9,zip:7}})

diff --git a/docs/course-syllabus.html b/docs/course-syllabus.html
@@ -573,12 +573,12 @@ title="Print to PDF"
 <tr class="row-even"><td><p>Lecture</p></td>
 <td><p>Wednesday</p></td>
 <td><p>11:45 am - 13:15 pm</p></td>
-<td><p>Room 016b</p></td>
+<td><p><a class="reference external" href="https://www.hdm-stuttgart.de/horst">Room 171</a></p></td>
 </tr>
 <tr class="row-odd"><td><p>Lab</p></td>
 <td><p>Wednesday</p></td>
 <td><p>14:15 pm - 15:00 pm</p></td>
-<td><p>Room 016b</p></td>
+<td><p><a class="reference external" href="https://www.hdm-stuttgart.de/horst">Room 171</a></p></td>
 </tr>
 </tbody>
 </table>

diff --git a/_sources/docs/course-syllabus.md b/_sources/docs/course-syllabus.md
@@ -6,8 +6,8 @@
 
 |           | Day       | Time                  | Location    |
 |-----------|-----------|-------------------    |-------------|
-| Lecture   | Wednesday | 11:45 am - 13:15 pm   |  Room 016b  |
-| Lab       | Wednesday | 14:15 pm - 15:00 pm   |  Room 016b  |
+| Lecture   | Wednesday | 11:45 am - 13:15 pm   |  [Room 171](https://www.hdm-stuttgart.de/horst)  |
+| Lab       | Wednesday | 14:15 pm - 15:00 pm   |  [Room 171](https://www.hdm-stuttgart.de/horst)  |
 
 
 ```{image} ../_static/img/room.png
